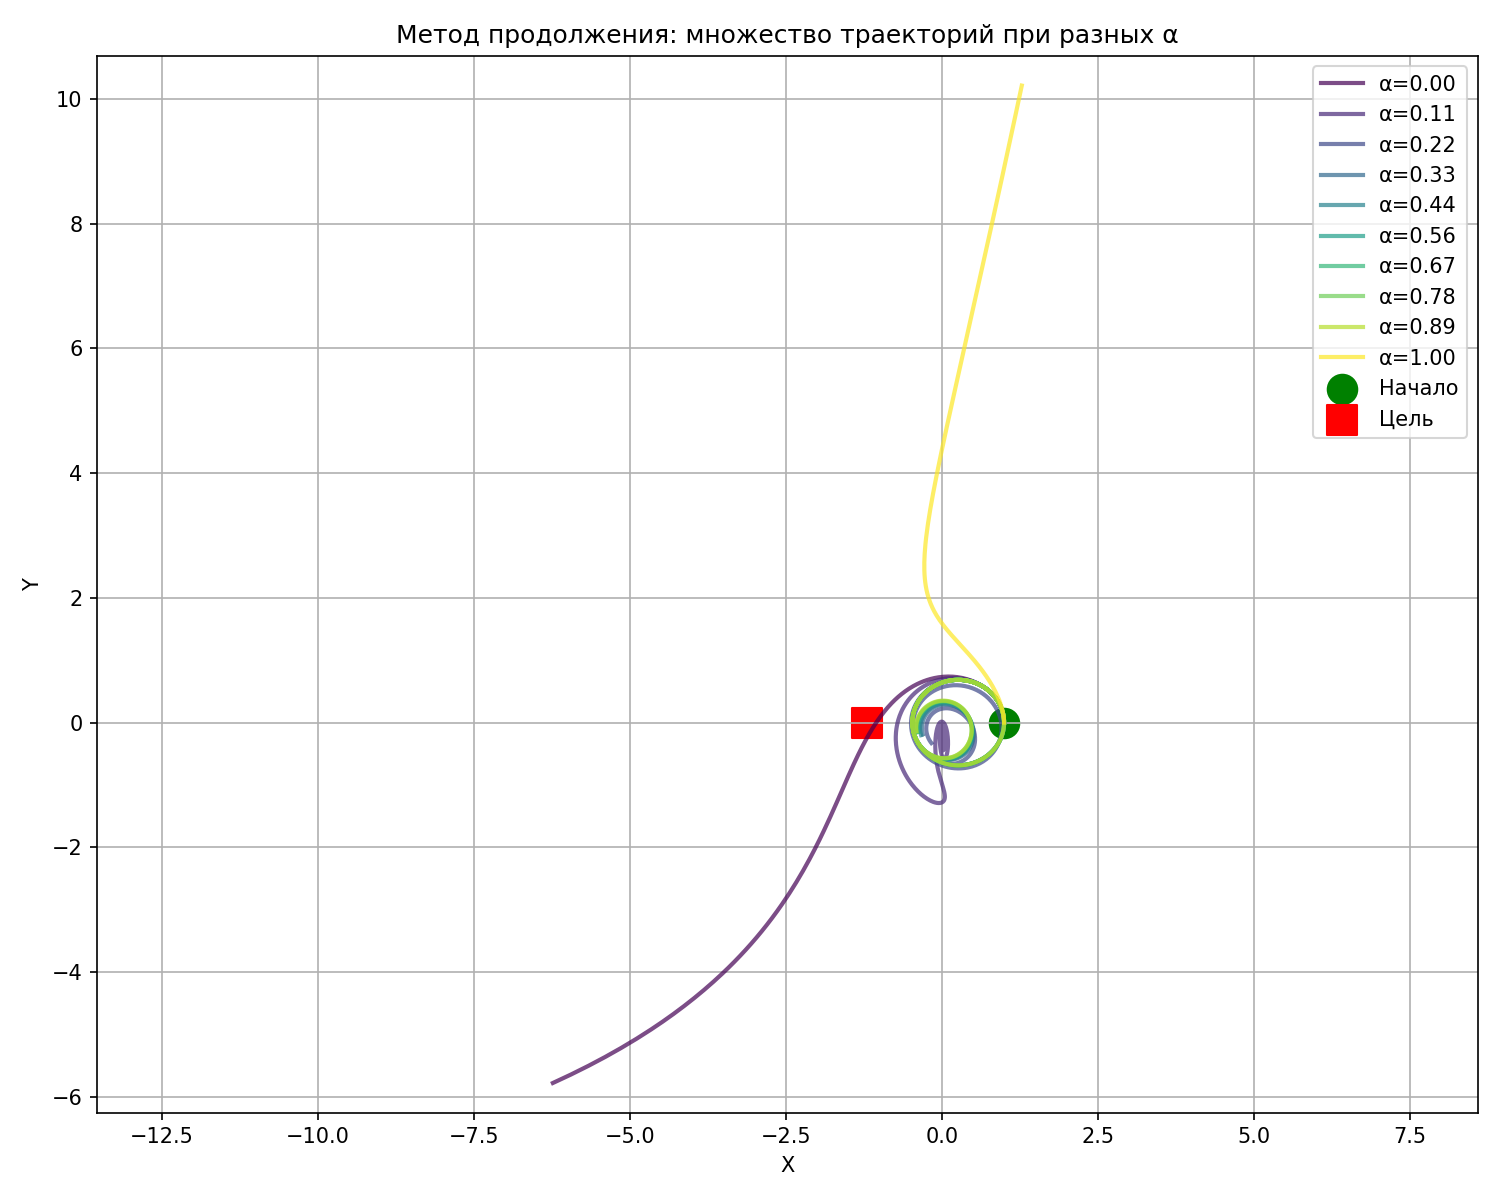
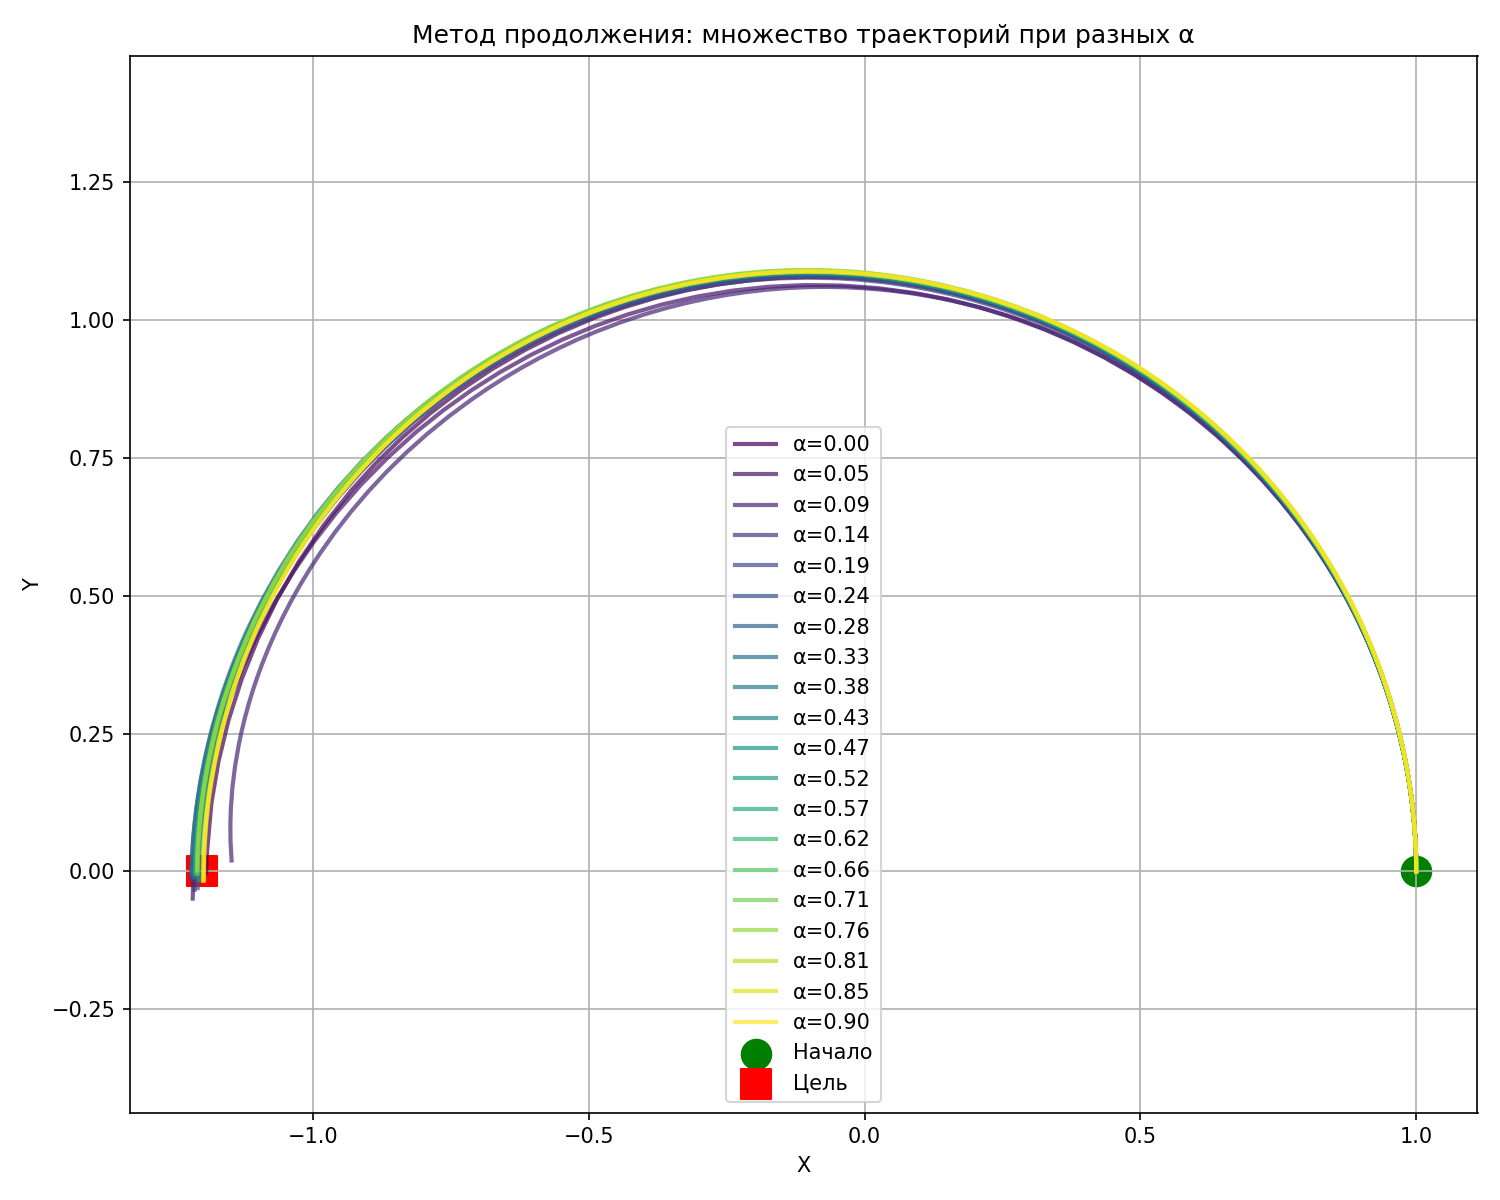
upgrade

diff --git a/result_traj.py b/result_traj.py
@@ -1,8 +1,161 @@
 import numpy as np
+import math
 from scipy.integrate import solve_ivp
 from scipy.optimize import minimize
 import matplotlib.pyplot as plt
 
+
+#Текущая аппроксимация в ILTT_Toolbox
+def T_a(a, kappa, alt=True):
+    """Время перелета из угловой дальности"""
+    B = 0.2721831
+    kappa = np.clip(kappa, 1e-6, np.inf)
+    if alt:
+        T = a*(0.03772064567906565*kappa + 1.405055577366462)*np.log(kappa + 1)+(0.08297934358955021*kappa + 0.009838514316752341)*np.log(kappa)**2
+    else:
+        T =  (kappa - kappa * B * np.log(kappa)) * a + (kappa * B**2 * np.log(kappa))
+    if a < 0.75:
+        K = kappa
+        L = a
+        T = (-L**(-K)*(0.7521363*K + 0.24717593)*(K*(0.0014925372**K*math.log(K + L) - 0.0003217671) - L**(K + 1)*(L + 0.0911687))/(L + 0.0911687)) #3.5e-03
+    return T
+def get_initial_adjoint(a, k, d=1):
+    if a < 0.75:
+        # --- MARS ---        
+        def pr_x_M(L, d):
+            y = (-(-0.5683159) + (0.75718486*math.exp(math.cos(L*(L + 1.8499389) + L + L + 0.75718486))**0.008454218 - math.sin(0.8540929 + 0.43165326/L))*(L*math.exp(L) + 0.06105759)/L) #1.7e-04
+            return y
+        def pr_y_M(L, d):
+            y = ((-0.0193943978884244 + 1.3159028*math.cos(0.20418811467131*(L - 0.17080334)*math.log(L)/L)/(math.exp(5.2420635*L) - 0.38545114))*math.sin(0.4104828/L)) #1.1e-04
+            return y
+        def pv_x_M(L, d):
+            y = (0.34306207*(1.5114436**L - (-0.0008686929)*math.exp(math.cos(-1.089295 - 1.5140266/L)))*(-L**(-1.3051801)*L*math.sin(L**(-0.7102793)) + (1.2651104*L)**(-0.7364218))) #7.0e-05
+            return y
+        def pv_y_M(L, d):
+            y = ((math.sin(0.3880472/math.atan(L)) - 0.5640575)/((0.1749562 - math.atan(L))*(math.atan(math.sin(0.36976972/L)) - 1.3752396) + math.atan(L) + 1.2624102) + 0.05609478) #1.2e-04
+            return y
+        # --- VENUS ---            
+        def pr_x_V(L, d):
+            y = (-(-0.0015014085)*math.sin(-0.37150827 - 1.6895345/L) - 0.0036338682 + math.atan(math.sin((-0.03401584 - 0.1006823/L)/((L/0.19236025))))/(L - (-0.0099956095)*math.atan(L))) #1.5e-04
+            return y
+        def pr_y_V(L, d):
+            y = ((-(-0.12630376*L*L/(L/math.cos(L) + 0.19825757) + (0.001852162 - 0.00014447162/L)/(L*L)) - 0.06392621)/(L*L)) #3.8e-04
+            return y
+        def pv_x_V(L, d):
+            y = ((math.sin(math.atan(L)) + 0.43953407*math.sin(-0.22335356/L)/L)/2.0870857 - math.atan(math.sin(L - 0.028144019)) - (-0.4978432) - 0.09923751/L) #1.2e-04
+            return y
+        def pv_y_V(L, d):
+            y = ((0.012981842 - 0.033012997/L)/(L + (-0.27790195)*(math.atan(3.7446797*L*L) + (-0.005431808)*math.atan(math.exp(math.cos(-1.356612/L)))))) #3.8e-04
+            return y
+    else:
+        # --- MARS ---
+        def pr_x_M(a, d):
+            denom = 7.780825627926492 * a - 0.34159993346898454
+            sin_arg = 2 * np.pi * a + 0.1231174475945867 + d * 0.5853586584957071 / (a**2 - 1.5690074915306857 * a + 1.9819223815154108)
+            exp_arg = -3.424188046763629 * a
+            exp_term = d * (-41.26470185582318 + 86.35986725318767 * a - 51.08371071757919 * a**2) * np.exp(exp_arg)
+            numerator = 0.20074211987250948
+            result = numerator / (denom + np.sin(sin_arg) + exp_term)
+            return result
+    
+        def pr_y_M(a, d):
+            cos_arg = 2 * np.pi * a + d * (
+                -2.7056930690628103 * a**2 + 5.176300671261158 * a - 2.336378597152512
+            ) * np.exp(3.2003639491958467 * a - 3.2205106566099353 * a**2)
+            numerator = 0.0015463527047873246 - 0.0031678016585249486 * np.cos(cos_arg)
+            denom = a**2 - 0.18328217249773662 * a + 0.11514749689845788
+            result = numerator / denom
+            return result
+    
+        def pv_x_M(a, d):
+            cos_arg = 2 * np.pi * a + d * (
+                -7.277086750486235 * a**2 + 13.74021831427378 * a - 6.262552219285274
+            ) * np.exp(1.381195073394106 * a - 2.278956114228774 * a**2)
+            numerator = 0.0018661818762522732 - 0.0031537940448213170 * np.cos(cos_arg)
+            denom = a**2 - 0.19152227381595716 * a + 0.0993237695309777
+            result = numerator / denom
+            return result
+    
+        def pv_y_M(a, d):
+            denom = 4.050922375438426 * a - 0.15902042687671913
+            sin_arg = 2 * np.pi * a + 0.11429217276196703 + d * 0.012218372217935064 / (a**2 - 2.8347986183365705 * a + 2.06664561825753)
+            exp_arg = -5.877538308252977 * a
+            exp_term = d * (-540.5981059117084 * a**2 + 958.0032106019531 * a - 415.15730979365355) * np.exp(exp_arg)
+            numerator = 0.10456877009148134
+            result = numerator / (denom + np.sin(sin_arg) + exp_term)
+            return result
+    
+        # --- VENUS ---
+        def pr_x_V(a, d):
+            denom = 7.737402704800786 * a - 0.32876870077839637
+            sin_arg = 2 * np.pi * a + 0.10377485561964216 + d * 0.5010768929874032 / (a**2 - 1.9514741381243845 * a + 2.4016982504424953)
+            exp_arg = -3.086139681061194 * a
+            exp_term = d * (-39.740029616989275 + 73.28781124258543 * a - 40.57760476908843 * a**2) * np.exp(exp_arg)
+            numerator = -0.2489269721475946
+            result = numerator / (denom + np.sin(sin_arg) + exp_term)
+            return result
+    
+        def pr_y_V(a, d):
+            cos_arg = 2 * np.pi * a + d * (
+                -5.520942046733101*a**2 + 9.93390376988929*a - 4.541315615665989
+            ) * np.exp(1.3808955605425999*a - 2.0000002462936357*a**2)
+            numerator = -0.006779491667620585 + 0.00432410667098884 * np.cos(cos_arg)
+            denom = a**2 + 0.08726450366262754*a - 0.20030536675890054
+            result = numerator / denom
+            return result
+    
+        def pv_x_V(a, d):
+            cos_arg = 2*np.pi*a + d*(
+                -1.786880982902473*a**2 + 3.1517137043764167*a - 1.3891212954291232
+            )*np.exp(2.9860241498160076*a-2.699241528126778*a**2)
+            numerator = -0.006319471111610397 + 0.004278503661785389*np.cos(cos_arg)
+            denom = a**2+0.13118547856852233*a-0.24254361523409607
+            result = numerator / denom
+            return result
+    
+        def pv_y_V(a, d):
+            denom = 4.0002764433454105*a-0.15629991248717665
+            sin_arg = 2*np.pi*a+0.08483203399561368+d*0.008896394730198013/(a**2-2.9131929806240318*a+2.1648040548553382)
+            exp_arg = -6.814266658923464*a
+            exp_term = d*(-1354.631280683438*a**2+2264.6420824634483*a-951.3449842396692)*np.exp(exp_arg)
+            numerator = -0.12867786064634879
+            result = numerator / (denom + np.sin(sin_arg) + exp_term)
+            return result
+    k = np.clip(k, 1e-6,np.inf)
+    k1=0.72
+    k2=1.52
+
+    # prx
+    p1 = pr_x_V(a,d)
+    p2 = pr_x_M(a,d)
+    g = (p2*k2**(1/4)/np.log(k2) - p1*k1*k2**(-3/4)/np.log(k1))/(1-(k1/k2)**(3/4))
+    f = p1*k1/np.log(k1)-g*k1**(3/4)
+    pr_x = np.log(k)*(f/k+g*k**(-1/4))
+
+    # pry
+    p1 = pr_y_V(a,d)
+    p2 = pr_y_M(a,d)
+    g = (p2*k2**(3/2)/np.log(k2) - p1*k1*np.sqrt(k2)/np.log(k1))/(1-np.sqrt(k2/k1))
+    f = p1*k1/np.log(k1)-g/np.sqrt(k1)
+    pr_y = np.log(k)*(f/k+g/(k**(3/2)))
+
+    # pvx
+    p1 = pv_x_V(a,d)
+    p2 = pv_x_M(a,d)
+    g = (p2*k2**(3/2)/np.log(k2) - p1*k1*np.sqrt(k2)/np.log(k1))/(1-np.sqrt(k2/k1))
+    f = p1*k1/np.log(k1)-g/np.sqrt(k1)
+    pv_x = np.log(k)*(f/k+g/(k**(3/2)))
+
+    # pvy
+    p1 = pv_y_V(a,d)
+    p2 = pv_y_M(a,d)
+    g = (p2*k2**(1/4)/np.log(k2) - p1*k1*k2**(-3/4)/np.log(k1))/(1-(k1/k2)**(3/4))
+    f = p1*k1/np.log(k1)-g*k1**(3/4)
+    pv_y = np.log(k)*(f/k+g*k**(-1/4))
+
+    pr_0 = np.array([pr_x, pr_y, 0])
+    pv_0 = np.array([pv_x, pv_y, 0])
+    return pr_0, pv_0
 
 class OptimalControlSolver:
     '''
@@ -102,7 +255,8 @@ class OptimalControlSolver:
 
     def solve(self, p0_guess=None, method='Nelder-Mead', options=None):
         if p0_guess is None:
-            p0_guess = np.array([0.1, 0.1, 0.0, -0.1, 0.05, 0.0])
+            pr_0, pv_0 = get_initial_adjoint(0.5, 1.2)
+            p0_guess = np.hstack((pr_0, pv_0))
 
         if options is None:
             options = {'disp': False, 'maxiter': 40}
@@ -177,15 +331,15 @@ if __name__ == "__main__":
     )
 
     r0 = np.array([1.0, 0.0, 0.0])
-    v0 = np.array([0.0, 0.8, 0.0])
+    v0 = np.array([0.0, 1.0, 0.0])
 
     rf = np.array([-1.2, 0.0, 0.0])
-    vf = np.array([0.0, -0.7, 0.0])
+    vf = np.array([0.0, -np.sqrt(0.7), 0.0])
 
-    T = 8.0
+    T = 2*np.pi*T_a(0.5,1.2)
 
     solver.set_boundary_conditions(r0, v0, rf, vf, T)
-    alpha_values = np.linspace(0, 1, 10)
+    alpha_values = np.linspace(0, 0.9, 20)
 
     results = solver.continuation_method(alpha_values, a_max_fixed=0.5)
 
